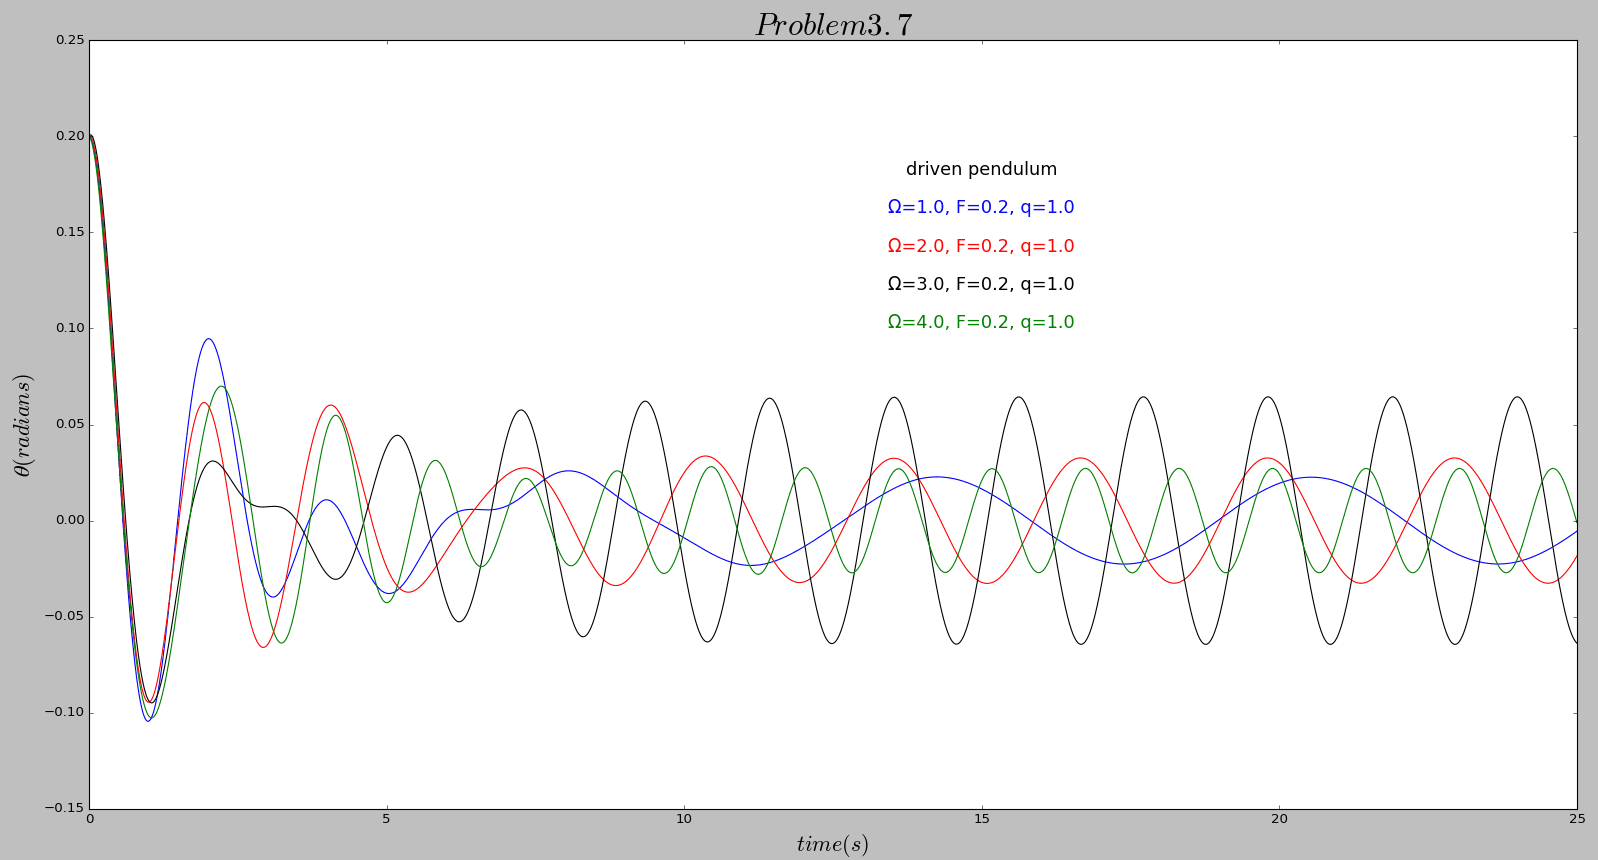
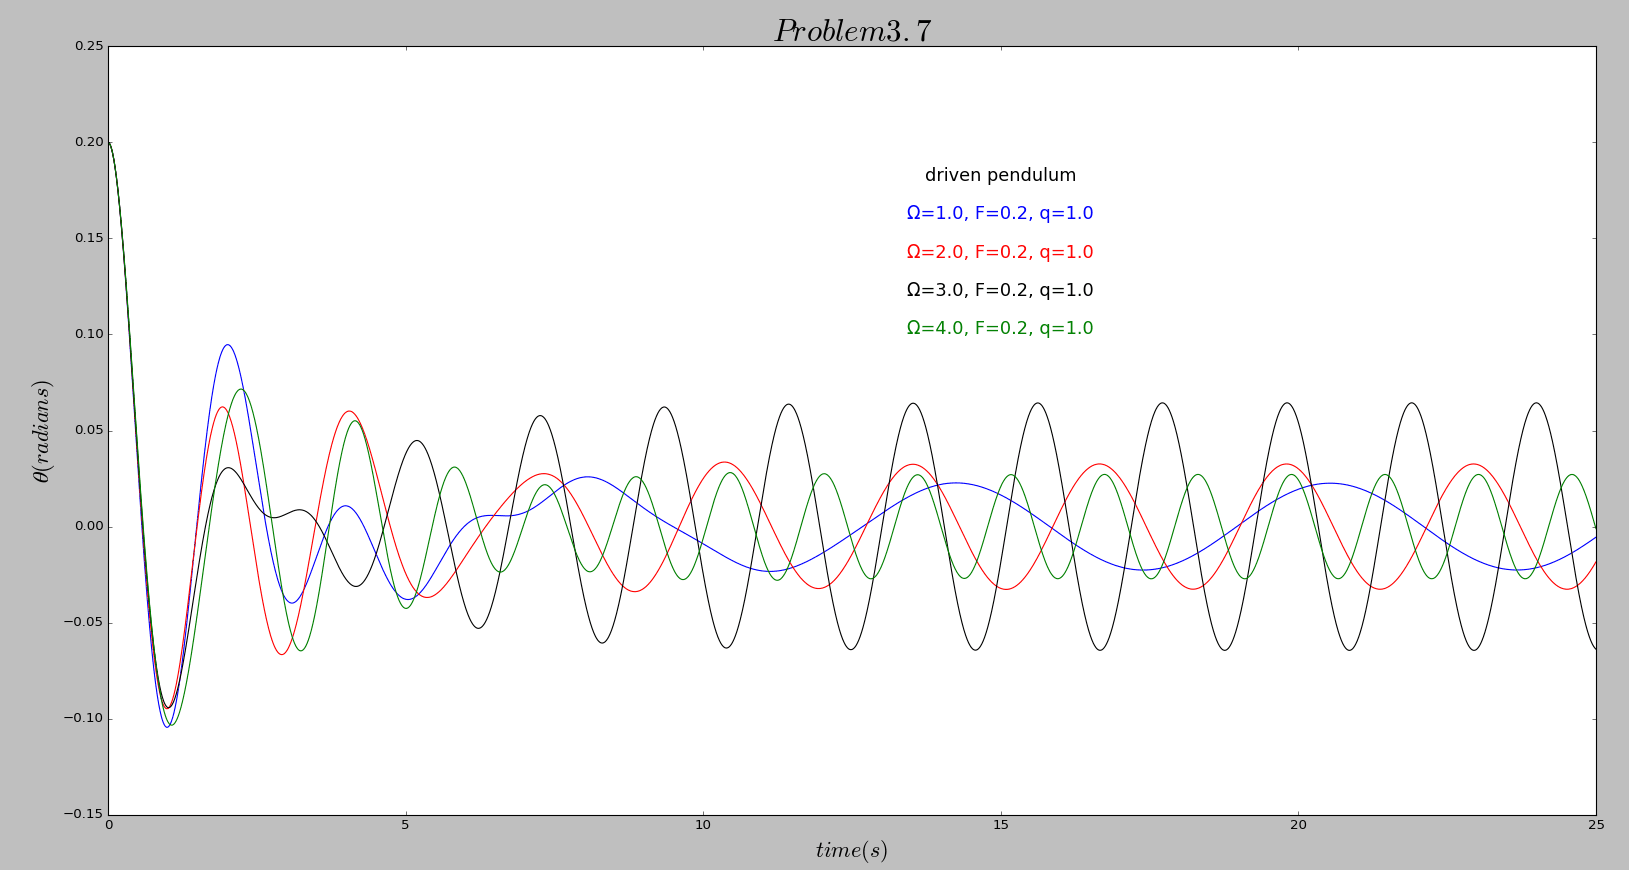
Add files via upload

diff --git a/the 8th homework/code/problem3.7_1.py b/the 8th homework/code/problem3.7_1.py
@@ -1,0 +1,69 @@
+# -- coding utf-8 --
+import numpy as np
+import matplotlib.pyplot as plt
+import math
+
+g = 9.8
+l = 1.0
+oumiga1 = 1.0
+oumiga2 = 2.0
+oumiga3 = 3.0
+oumiga4 = 4.0
+fd = 0.2
+q = 1.0
+ini_x = 0.2
+ini_v = 0
+ini_a = 0
+dt = 0.001
+t = np.arange(0,25,dt)
+p1 = []
+p2 = []
+p3 = []
+p4 = []
+
+x = ini_x
+v = ini_v
+a = ini_a
+for i in range(len(t)):
+	p1.append(x)
+	a = - g/l*x - q*v + fd*math.sin(oumiga1*t[i])
+	v += a*dt
+	x += v*dt
+	
+x = ini_x
+v = ini_v
+a = ini_a
+for i in range(len(t)):
+	p2.append(x)
+	a = - g/l*x - q*v + fd*math.sin(oumiga2*t[i])
+	v += a*dt
+	x += v*dt	
+	
+x = ini_x
+v = ini_v
+a = ini_a
+for i in range(len(t)):
+	p3.append(x)
+	a = - g/l*x - q*v + fd*math.sin(oumiga3*t[i])
+	v += a*dt
+	x += v*dt
+	
+x = ini_x
+v = ini_v
+a = ini_a
+for i in range(len(t)):
+	p4.append(x)
+	a = - g/l*x - q*v + fd*math.sin(oumiga4*t[i])
+	v += a*dt
+	x += v*dt
+	
+plt.plot(t,p1,'b',t,p2,'r',t,p3,'k',t,p4,'g')
+plt.text(15,0.18,u'driven pendulum',color='black',ha='center',fontsize=16)
+plt.text(15,0.16,u'\u03A9=1.0, F=0.2, q=1.0',color='blue',ha='center',fontsize=16)
+plt.text(15,0.14,u'\u03A9=2.0, F=0.2, q=1.0',color='red',ha='center',fontsize=16)
+plt.text(15,0.12,u'\u03A9=3.0, F=0.2, q=1.0',color='black',ha='center',fontsize=16)
+plt.text(15,0.10,u'\u03A9=4.0, F=0.2, q=1.0',color='green',ha='center',fontsize=16)
+plt.title('$Problem3.7$',fontsize=28)
+plt.xlabel('$time(s)$',fontsize=20)
+plt.ylabel(u'$\u03B8(radians)$',fontsize=20)
+plt.show()

diff --git a/the 8th homework/code/problem3.7_2.py b/the 8th homework/code/problem3.7_2.py
@@ -1,0 +1,69 @@
+# -- coding utf-8 --
+import numpy as np
+import matplotlib.pyplot as plt
+import math
+
+g = 9.8
+l = 1.0
+oumiga = 2.0
+fd = 0.2
+q1 = 0.5
+q2 = 1.0
+q3 = 2.0
+q4 = 3.0
+ini_x = 0.2
+ini_v = 0
+ini_a = 0
+dt = 0.001
+t = np.arange(0,25,dt)
+p1 = []
+p2 = []
+p3 = []
+p4 = []
+
+x = ini_x
+v = ini_v
+a = ini_a
+for i in range(len(t)):
+	p1.append(x)
+	a = - g/l*x - q1*v + fd*math.sin(oumiga*t[i])
+	v += a*dt
+	x += v*dt
+	
+x = ini_x
+v = ini_v
+a = ini_a
+for i in range(len(t)):
+	p2.append(x)
+	a = - g/l*x - q2*v + fd*math.sin(oumiga*t[i])
+	v += a*dt
+	x += v*dt	
+	
+x = ini_x
+v = ini_v
+a = ini_a
+for i in range(len(t)):
+	p3.append(x)
+	a = - g/l*x - q3*v + fd*math.sin(oumiga*t[i])
+	v += a*dt
+	x += v*dt
+	
+x = ini_x
+v = ini_v
+a = ini_a
+for i in range(len(t)):
+	p4.append(x)
+	a = - g/l*x - q4*v + fd*math.sin(oumiga*t[i])
+	v += a*dt
+	x += v*dt
+	
+plt.plot(t,p1,'b',t,p2,'r',t,p3,'k',t,p4,'g')
+plt.text(15,0.18,u'driven pendulum',color='black',ha='center',fontsize=16)
+plt.text(15,0.16,u'\u03A9=2.0, F=0.2, q=0.5',color='blue',ha='center',fontsize=16)
+plt.text(15,0.14,u'\u03A9=2.0, F=0.2, q=1.0',color='red',ha='center',fontsize=16)
+plt.text(15,0.12,u'\u03A9=2.0, F=0.2, q=2.0',color='black',ha='center',fontsize=16)
+plt.text(15,0.10,u'\u03A9=2.0, F=0.2, q=3.0',color='green',ha='center',fontsize=16)
+plt.title('$Problem3.7$',fontsize=28)
+plt.xlabel('$time(s)$',fontsize=20)
+plt.ylabel(u'$\u03B8(radians)$',fontsize=20)
+plt.show()

diff --git a/the 8th homework/code/problem3.8.py b/the 8th homework/code/problem3.8.py
@@ -1,0 +1,66 @@
+# -- coding utf-8 --
+import numpy as np
+import matplotlib.pyplot as plt
+import math
+
+g = 9.8
+l1 = 0.5
+l2 = 1.0
+l3 = 1.5
+l4 = 2.0
+ini_x = 1.5
+ini_v = 0
+ini_a = 0
+dt = 0.001
+t = np.arange(0,10,dt)
+p1 = []
+p2 = []
+p3 = []
+p4 = []
+
+x = ini_x
+v = ini_v
+a = ini_a
+for i in range(len(t)):
+	p1.append(x)
+	a = - g/l1*math.sin(x)
+	v += a*dt
+	x += v*dt
+
+x = ini_x
+v = ini_v
+a = ini_a
+for i in range(len(t)):
+	p2.append(x)
+	a = - g/l2*math.sin(x)
+	v += a*dt
+	x += v*dt
+
+x = ini_x
+v = ini_v
+a = ini_a
+for i in range(len(t)):
+	p3.append(x)
+	a = - g/l3*math.sin(x)
+	v += a*dt
+	x += v*dt
+
+x = ini_x
+v = ini_v
+a = ini_a
+for i in range(len(t)):
+	p4.append(x)
+	a = - g/l4*math.sin(x)
+	v += a*dt
+	x += v*dt
+
+plt.plot(t,p1,'b',t,p2,'r',t,p3,'k',t,p4,'g')
+plt.text(7.6,1.8,u'nonlinear pendulum',color='black',ha='center',fontsize=16)
+plt.text(7.6,1.7,u'l=0.5,g=9.8',color='blue',ha='center',fontsize=16)
+plt.text(7.6,1.6,u'l=1.0,g=9.8',color='red',ha='center',fontsize=16)
+plt.text(7.6,1.5,u'l=1.5,g=9.8',color='black',ha='center',fontsize=16)
+plt.text(7.6,1.4,u'l=2.0,g=9.8',color='green',ha='center',fontsize=16)
+plt.title('$Problem3.8$',fontsize=28)
+plt.xlabel('$time(s)$',fontsize=20)
+plt.ylabel(u'$\u03B8(radians)$',fontsize=20)
+plt.show()
